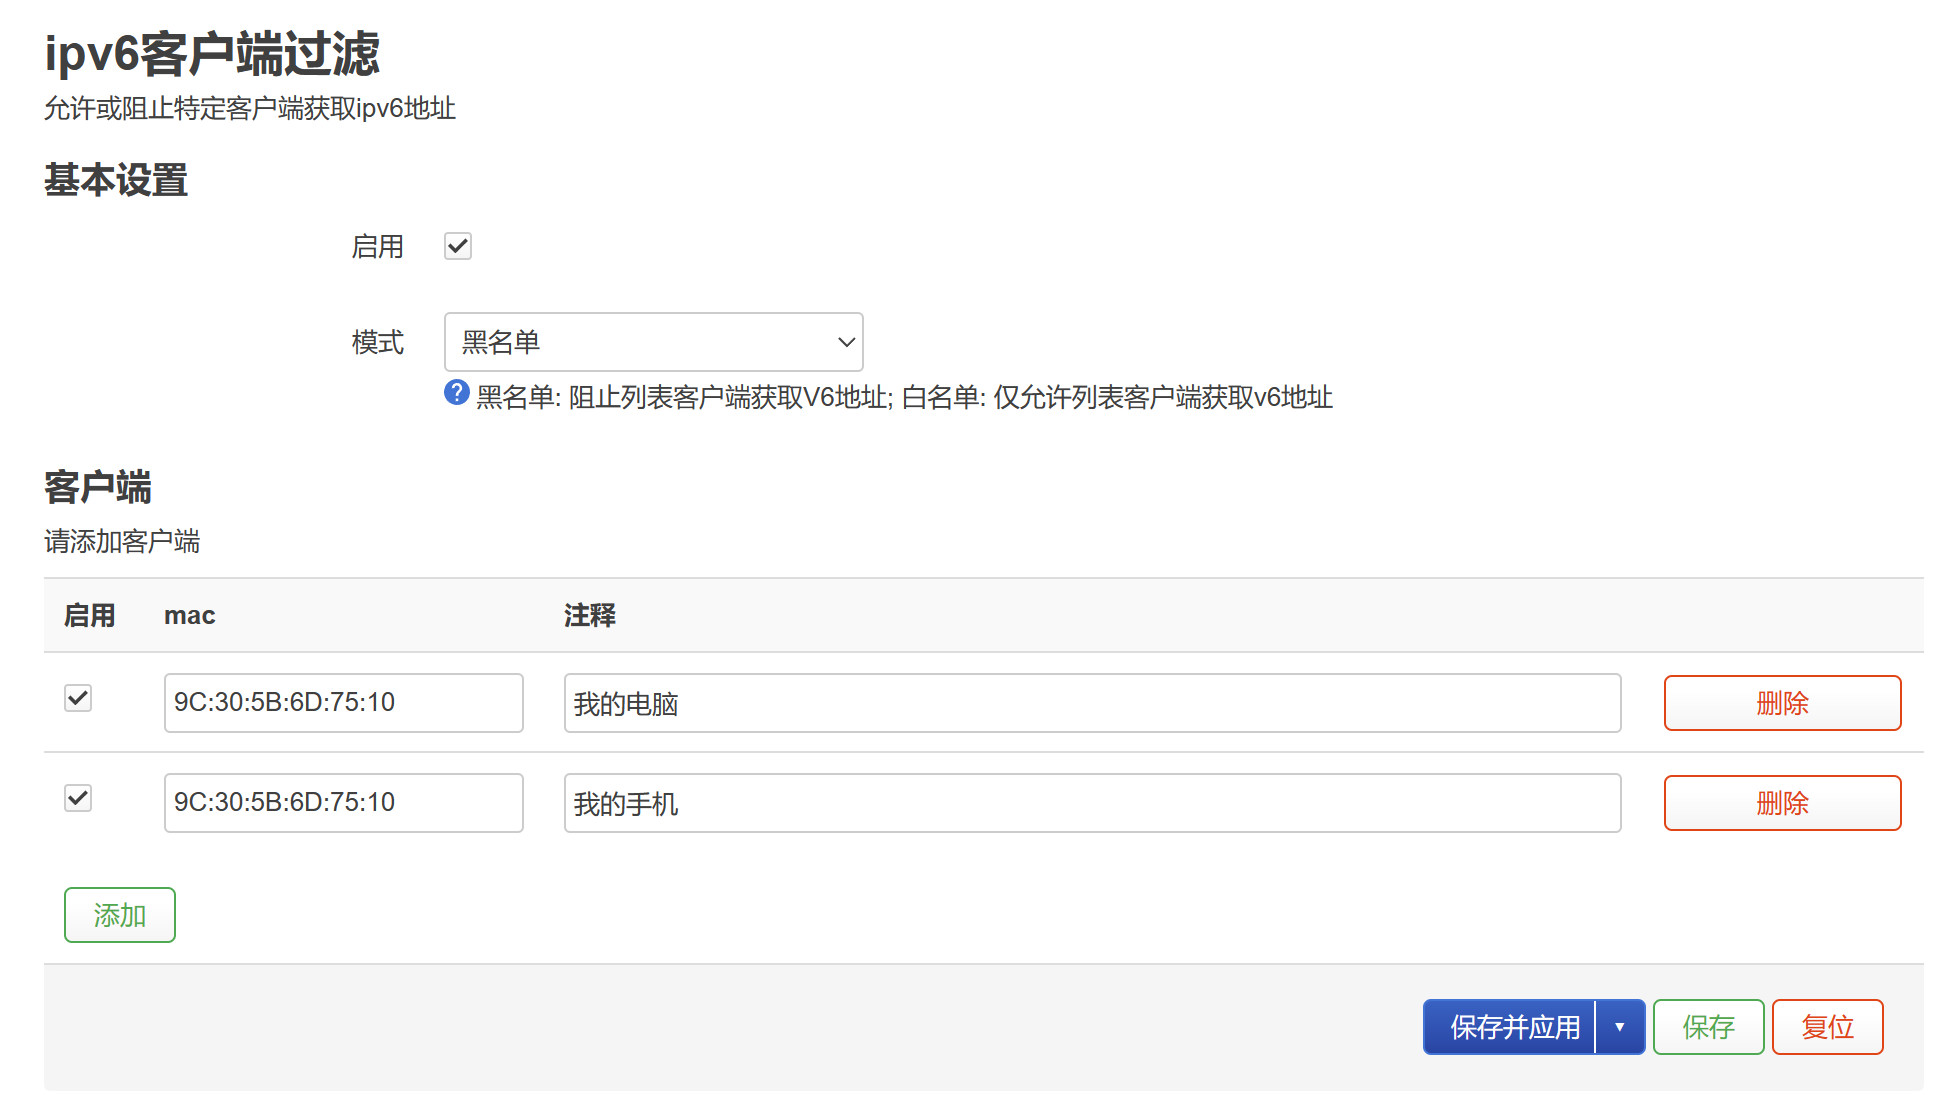
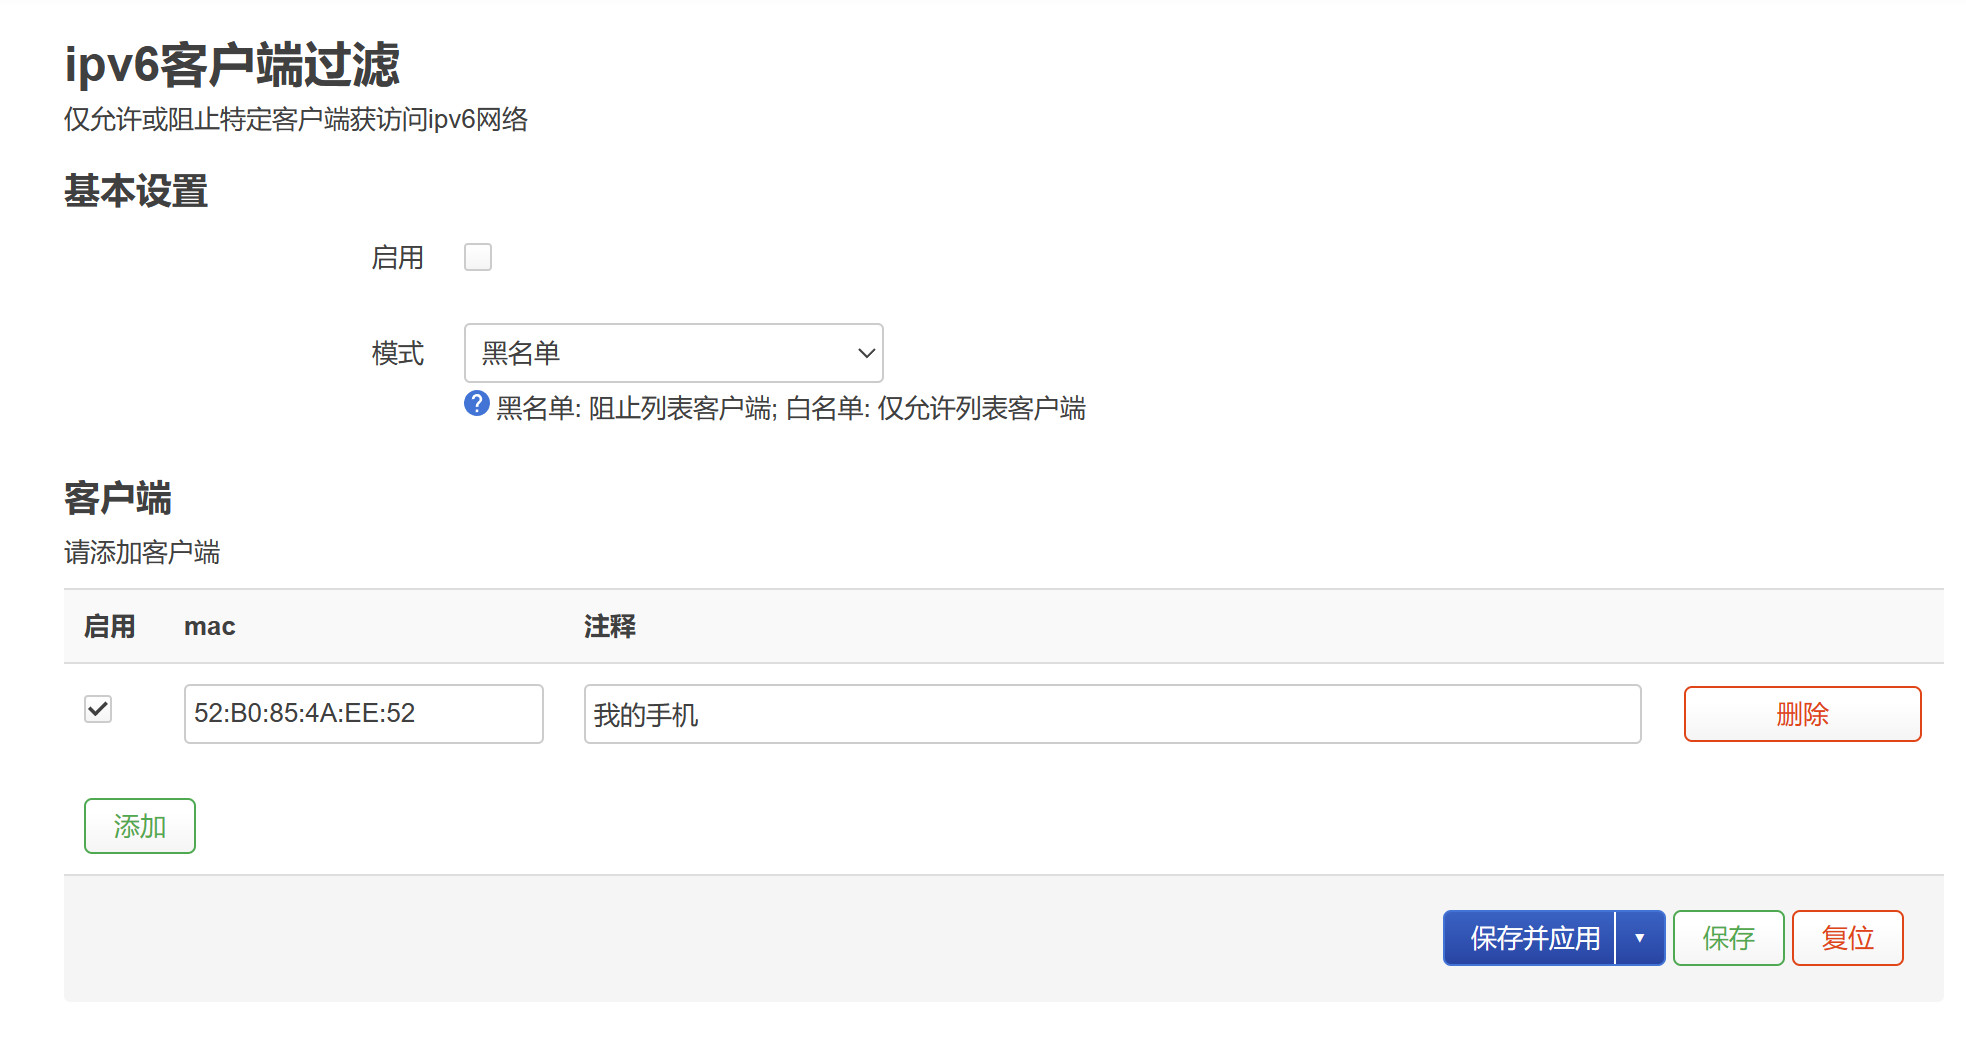
u

diff --git a/htdocs/luci-static/resources/view/ipv6clientfilter/ipv6clientfilter.js b/htdocs/luci-static/resources/view/ipv6clientfilter/ipv6clientfilter.js
@@ -6,7 +6,7 @@ return view.extend({
         var m,
         s,
         o;
-        m = new form.Map('ipv6clientfilter', _('ipv6 client filter'), _('Allow or deny specific clients to obtain IPv6 addresses'));
+        m = new form.Map('ipv6clientfilter', _('ipv6 client filter'), _('Allow or deny specific clients from accessing ipv6 networks'));
 		
         s = m.section(form.NamedSection, 'prefs', 'ipv6clientfilter', _('basic settings'));
 		
@@ -14,7 +14,7 @@ return view.extend({
 		o.rmempty = false;
         o.default = '0';
 
-        o = s.option(form.ListValue, 'mode', _('mode'), _('blacklist: block clients in the list; whitelist: only clients in the list are allowed'));
+        o = s.option(form.ListValue, 'mode', _('mode'), _('blacklist: block clients in the list; whitelist: only allow clients in the list are allowed'));
         o.value('blacklist', _('blacklist'));
         o.value('whitelist', _('whitelist'));
         o.rmempty = false;
@@ -33,7 +33,7 @@ return view.extend({
 		o.width = 200;
 		o.validate = function (cfg, value) {
 			if ( ! /^([0-9A-Fa-f]{2}:){5}([0-9A-Fa-f]{2})$/.test(value)){
-				return _('format') + ':00:0C:29:CA:E4:66';
+				return _('format') + ' xx:xx:xx:xx:xx:xx';
 			}
 			return true;
 		};
